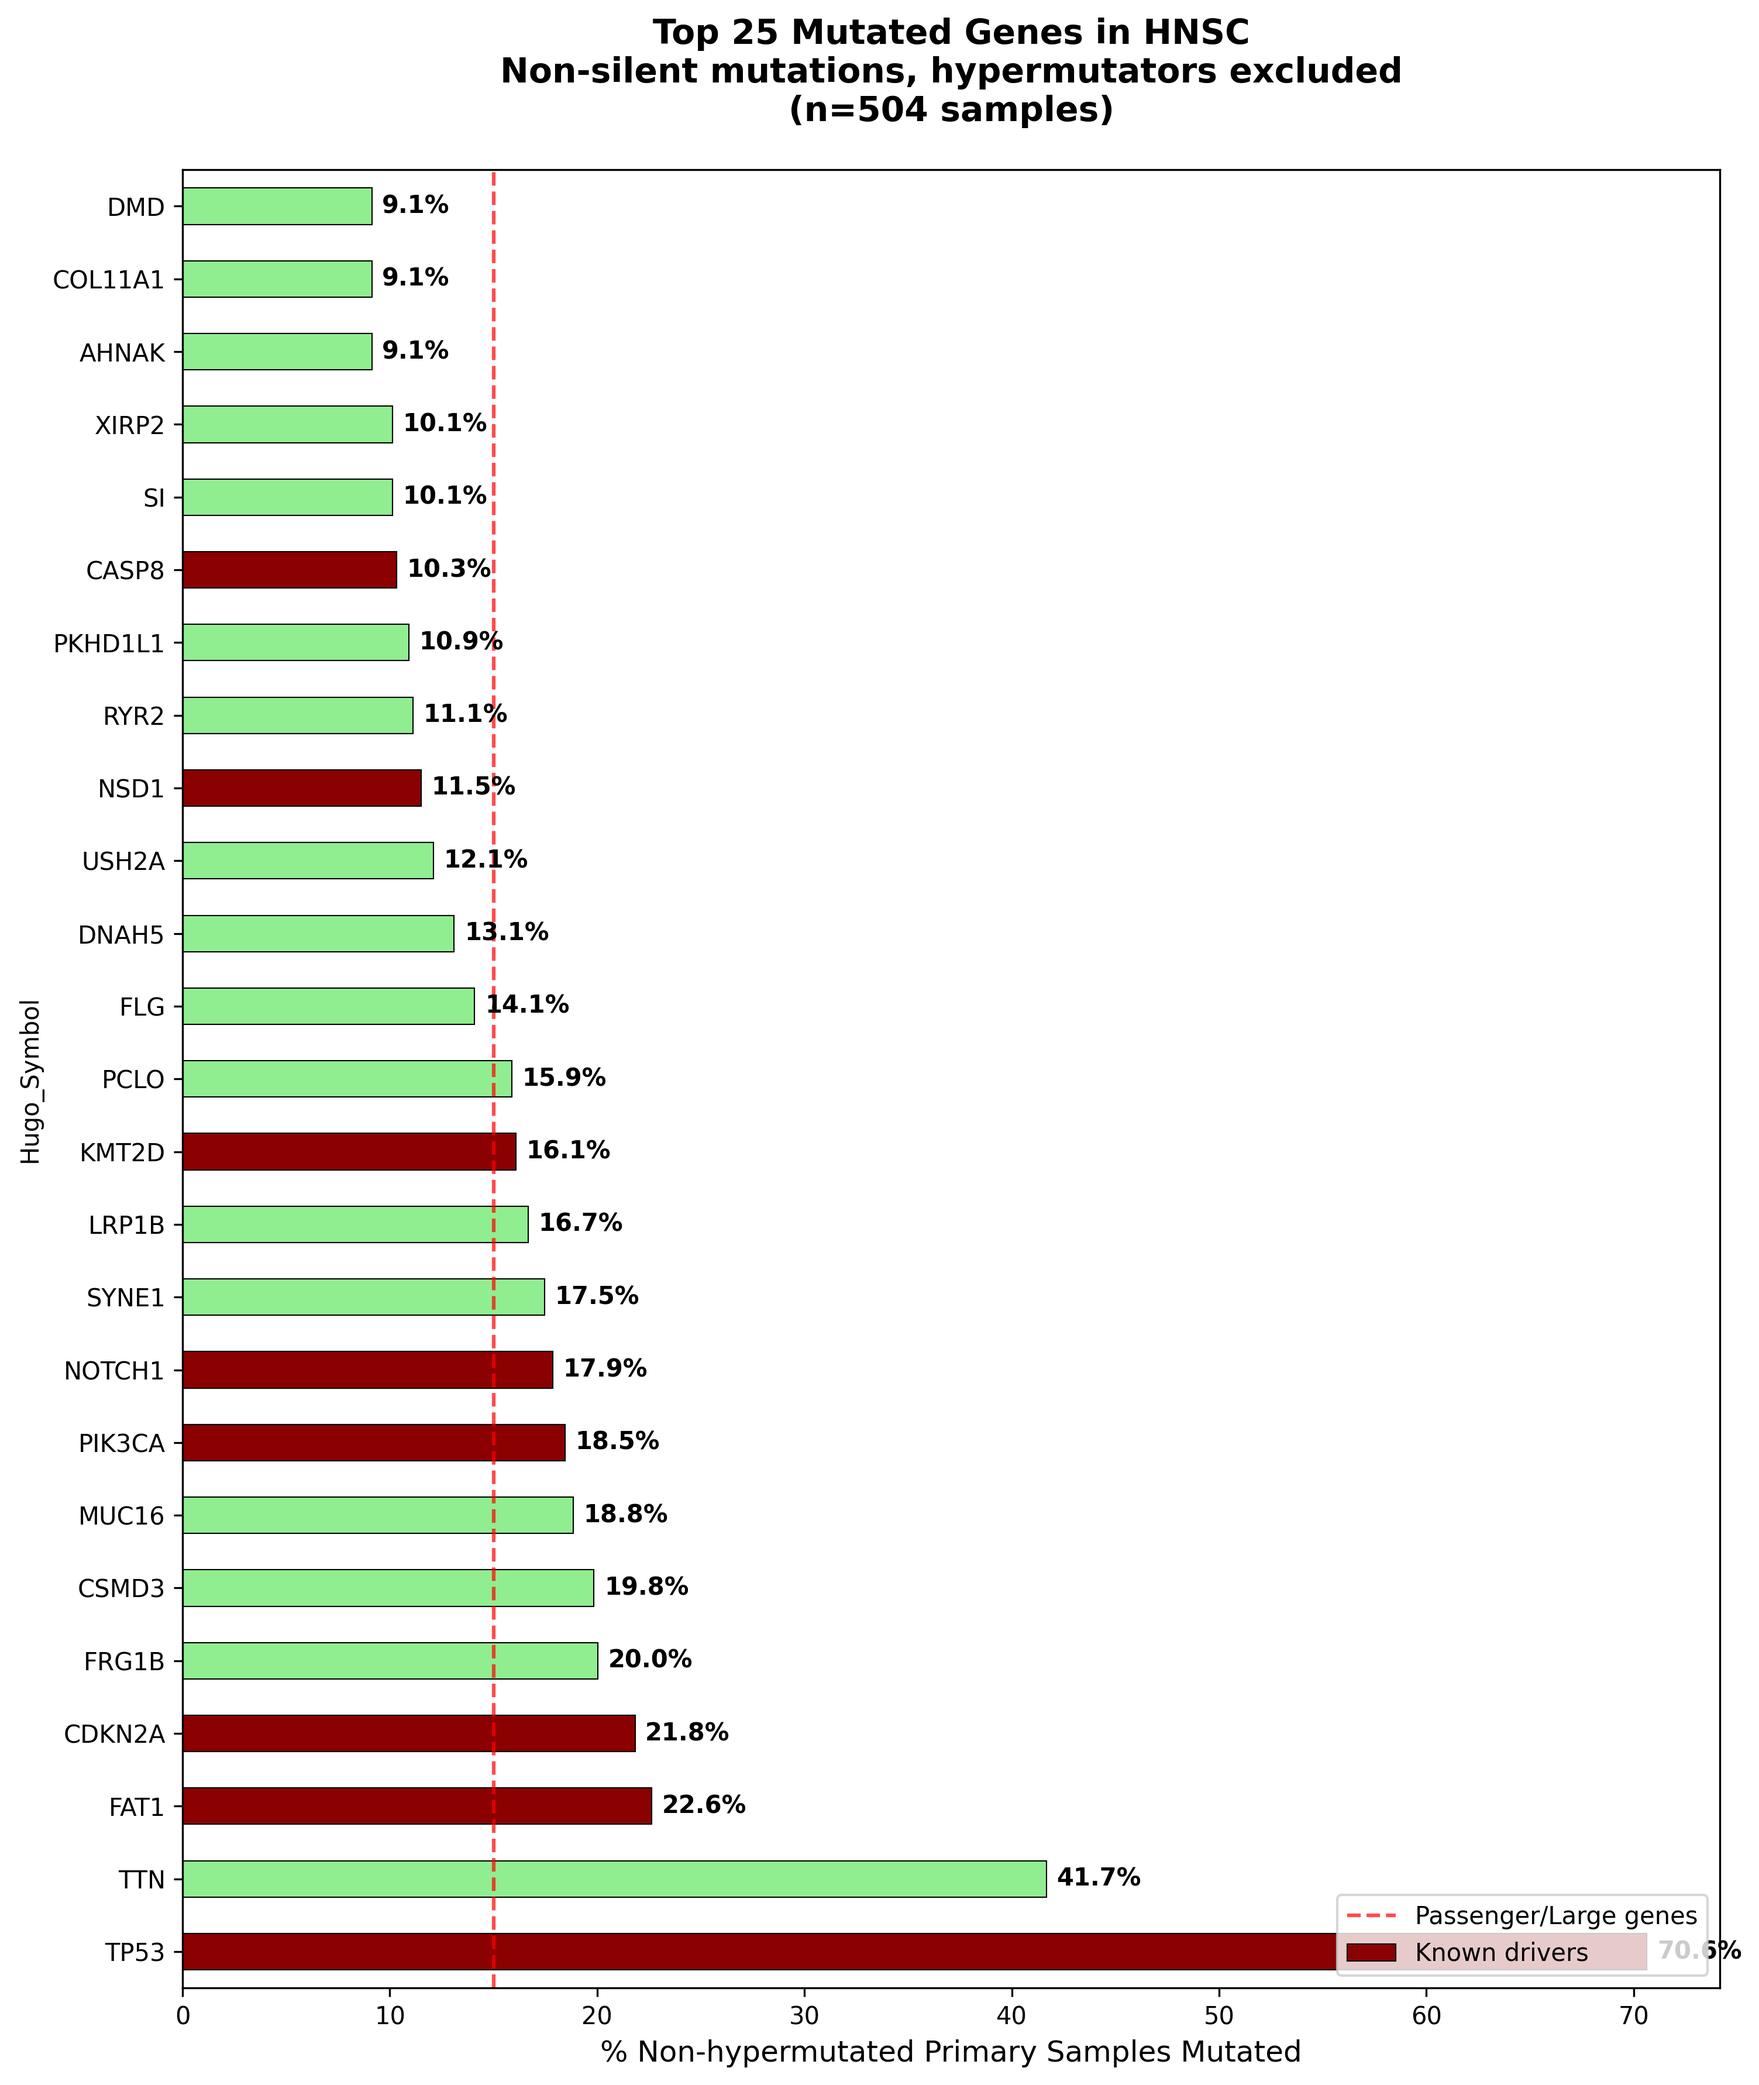
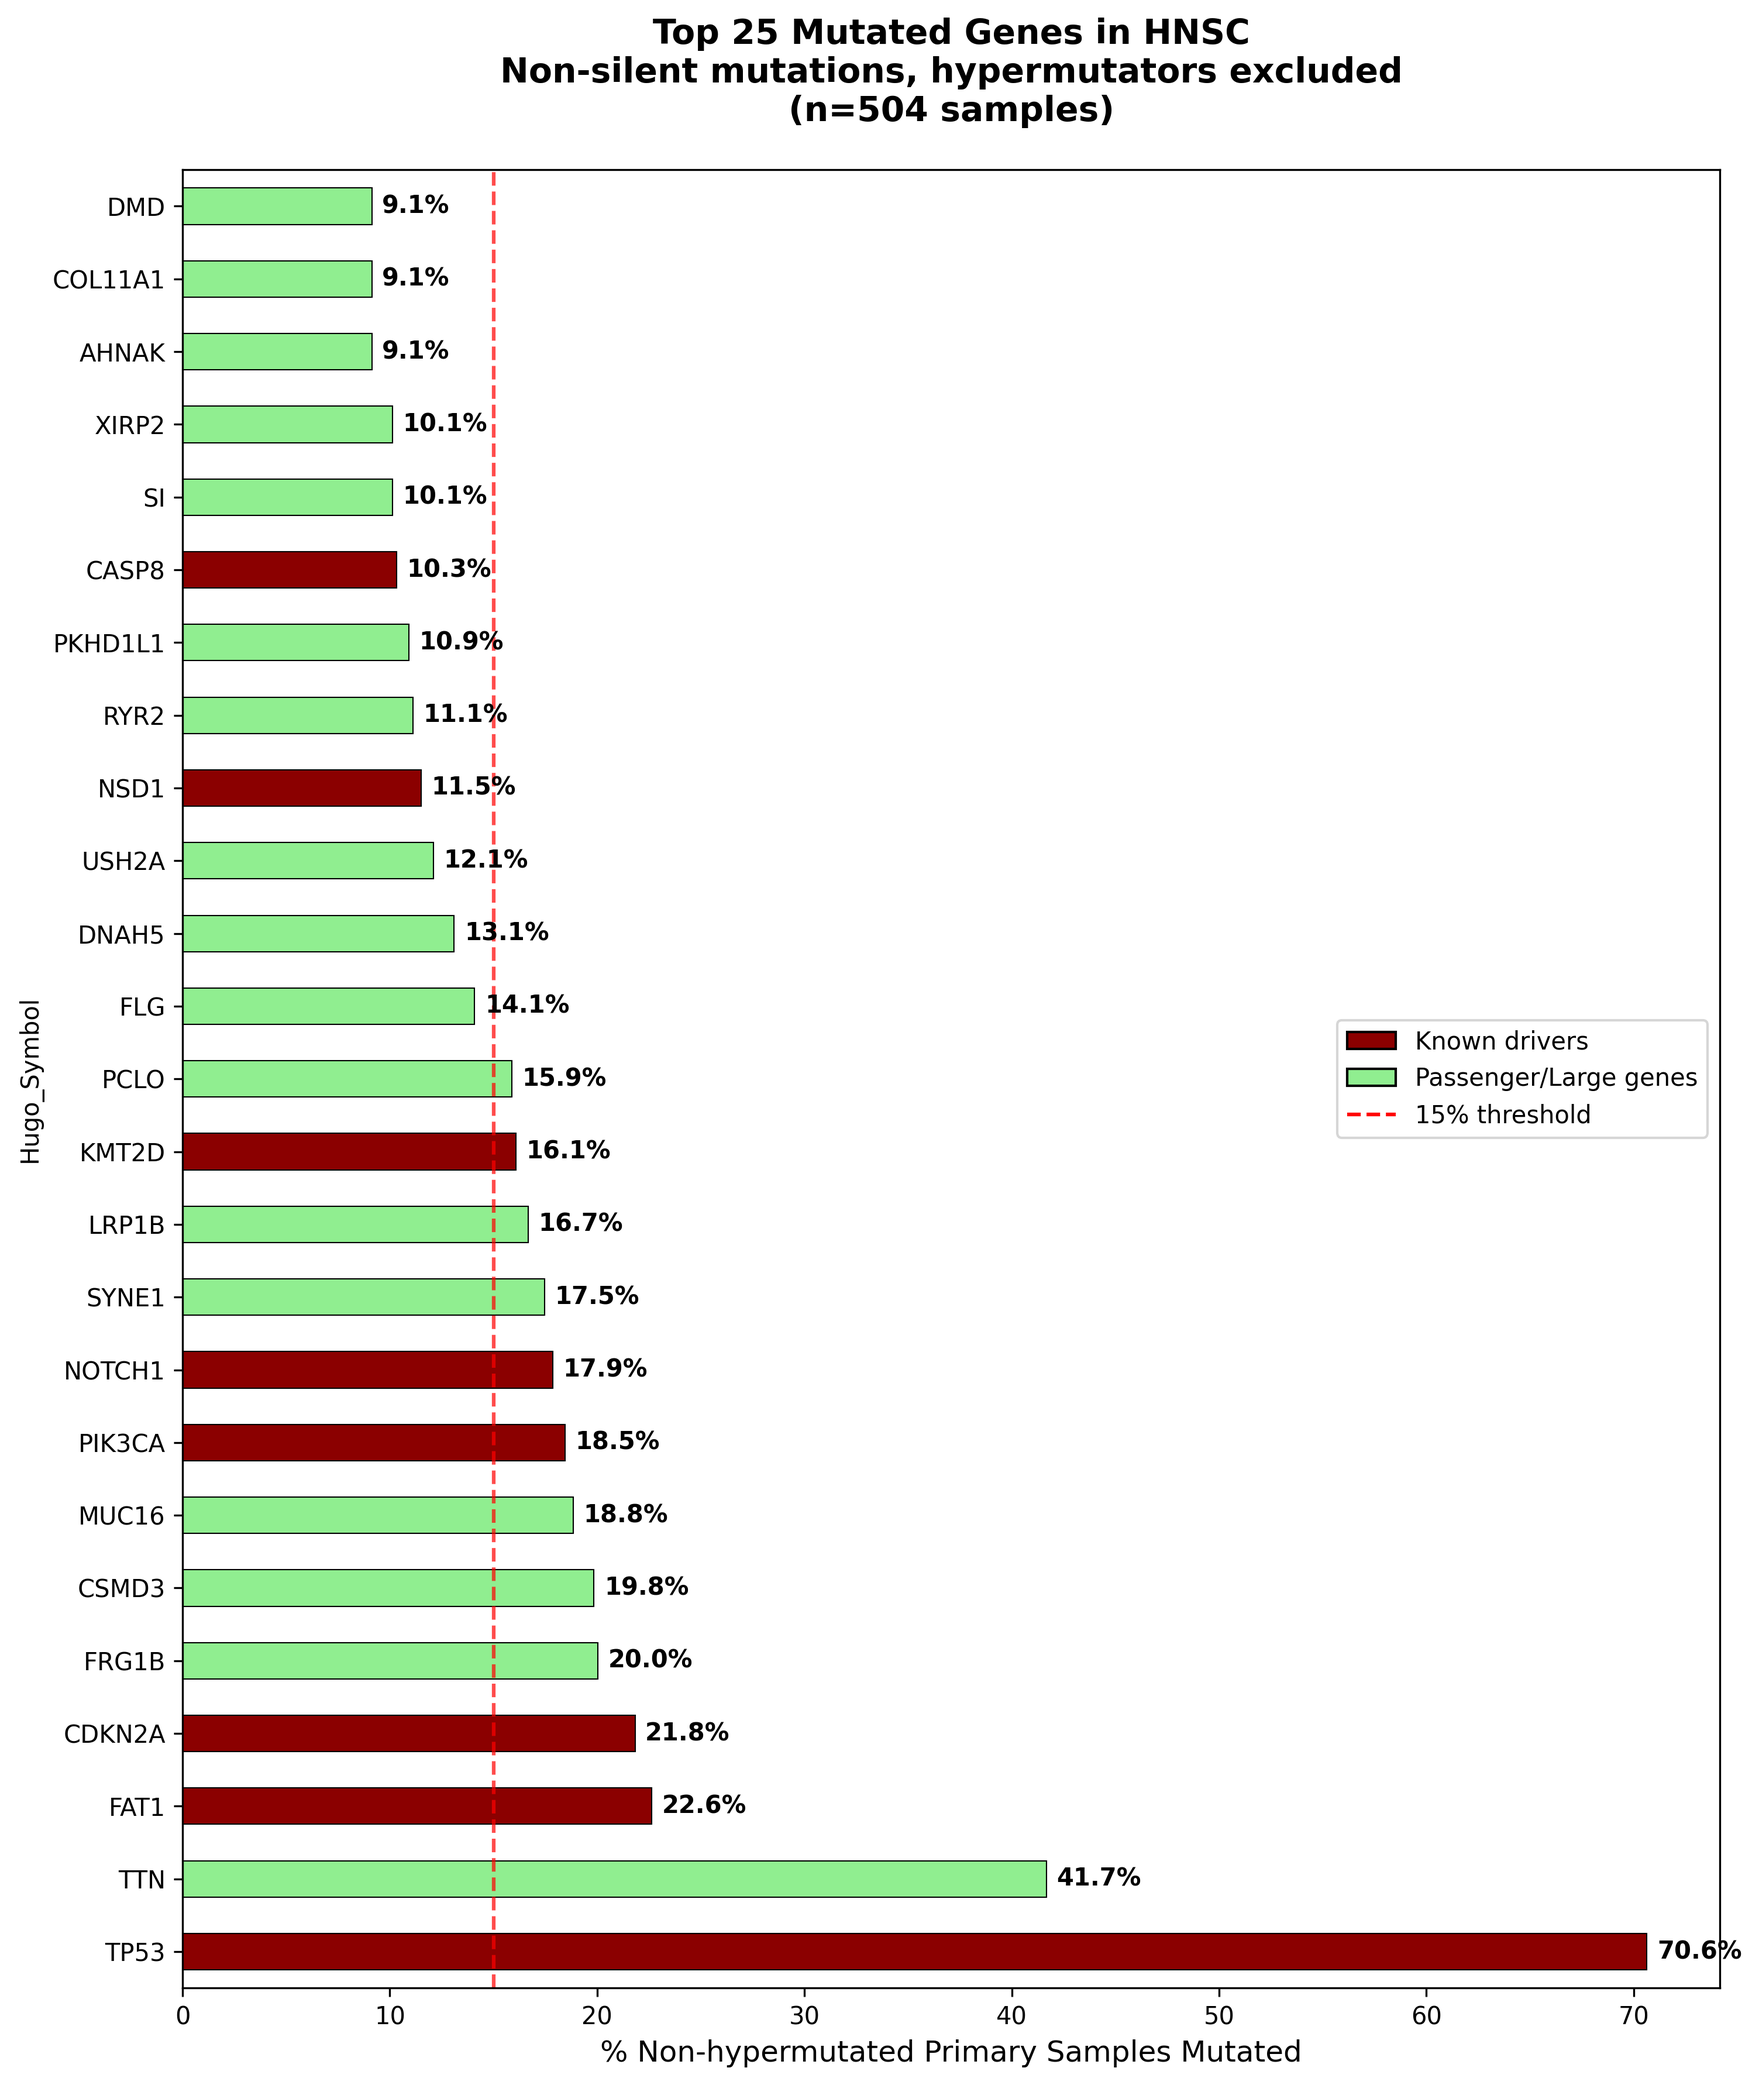
Fix Figure 1 legend: correct color labels for drivers/passengers/threshold

Changed region(s): [[0.7423, 0.9032, 0.9588, 0.9655], [0.7423, 0.4672, 0.9588, 0.5606]]

diff --git a/scripts/03_mutation_frequency.py b/scripts/03_mutation_frequency.py
@@ -5,6 +5,8 @@ import pandas as pd
 import os
 import matplotlib.pyplot as plt
 import seaborn as sns
+from matplotlib.patches import Patch
+from matplotlib.lines import Line2D
 
 # TOP MUTATED GENES
 print("HNSC TOP MUTATED GENES")
@@ -65,7 +67,12 @@ bars = top25_data.plot(kind='barh', color=colors, edgecolor='black', linewidth=0
 plt.title(f'Top 25 Mutated Genes in HNSC\nNon-silent mutations, hypermutators excluded\n(n={total_samples} samples)', fontsize=14, fontweight='bold', pad=20)
 plt.xlabel('% Non-hypermutated Primary Samples Mutated', fontsize=12)
 plt.axvline(x=15, color='red', linestyle='--', alpha=0.7, label='15% threshold')
-plt.legend(['Passenger/Large genes', 'Known drivers'], loc='lower right')
+legend_elements = [
+    Patch(facecolor='darkred', edgecolor='black', label='Known drivers'),
+    Patch(facecolor='lightgreen', edgecolor='black', label='Passenger/Large genes'),
+    Line2D([0], [0], color='red', linestyle='--', label='15% threshold')
+]
+plt.legend(handles=legend_elements, loc='center right', fontsize=10)
 plt.tight_layout()
 
 
